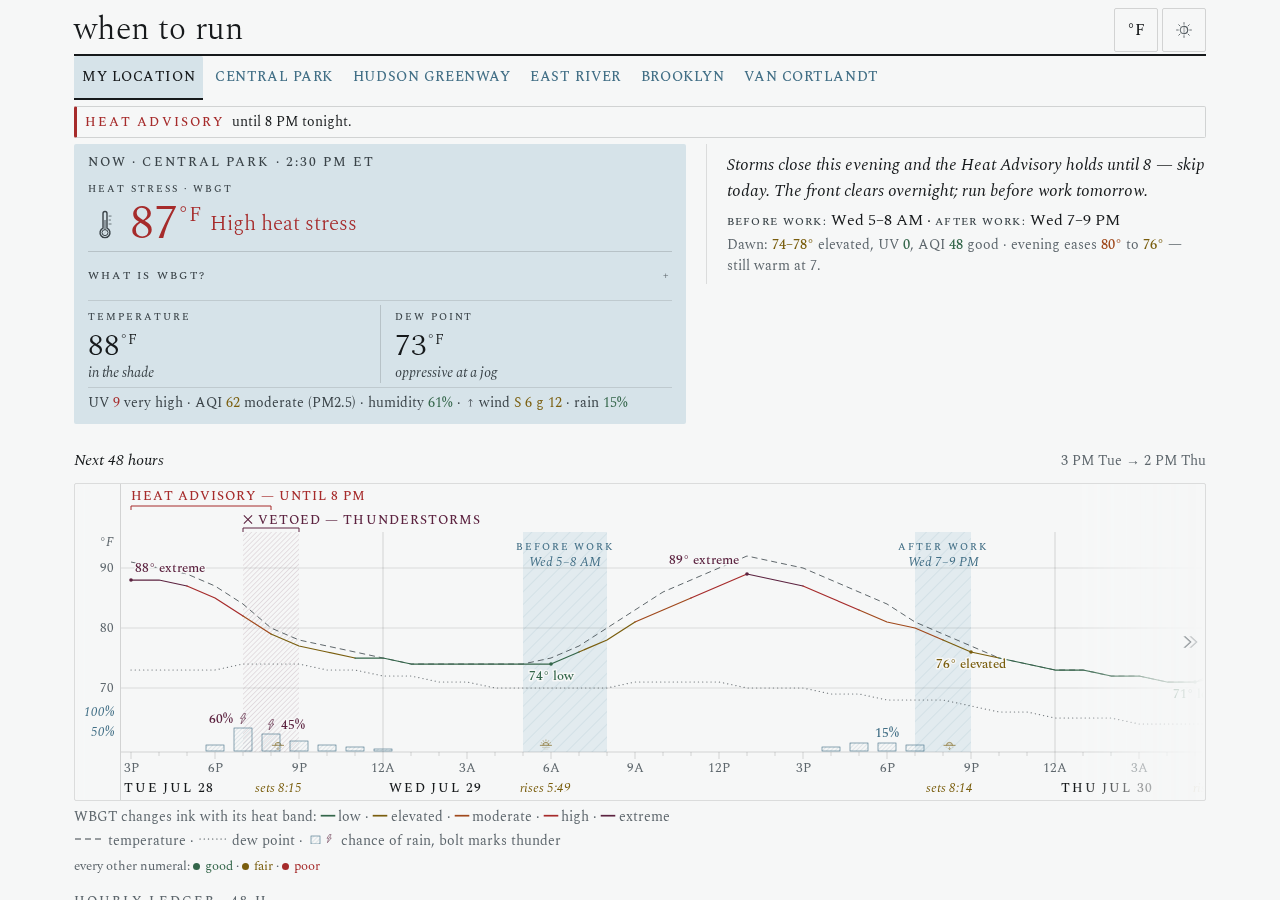
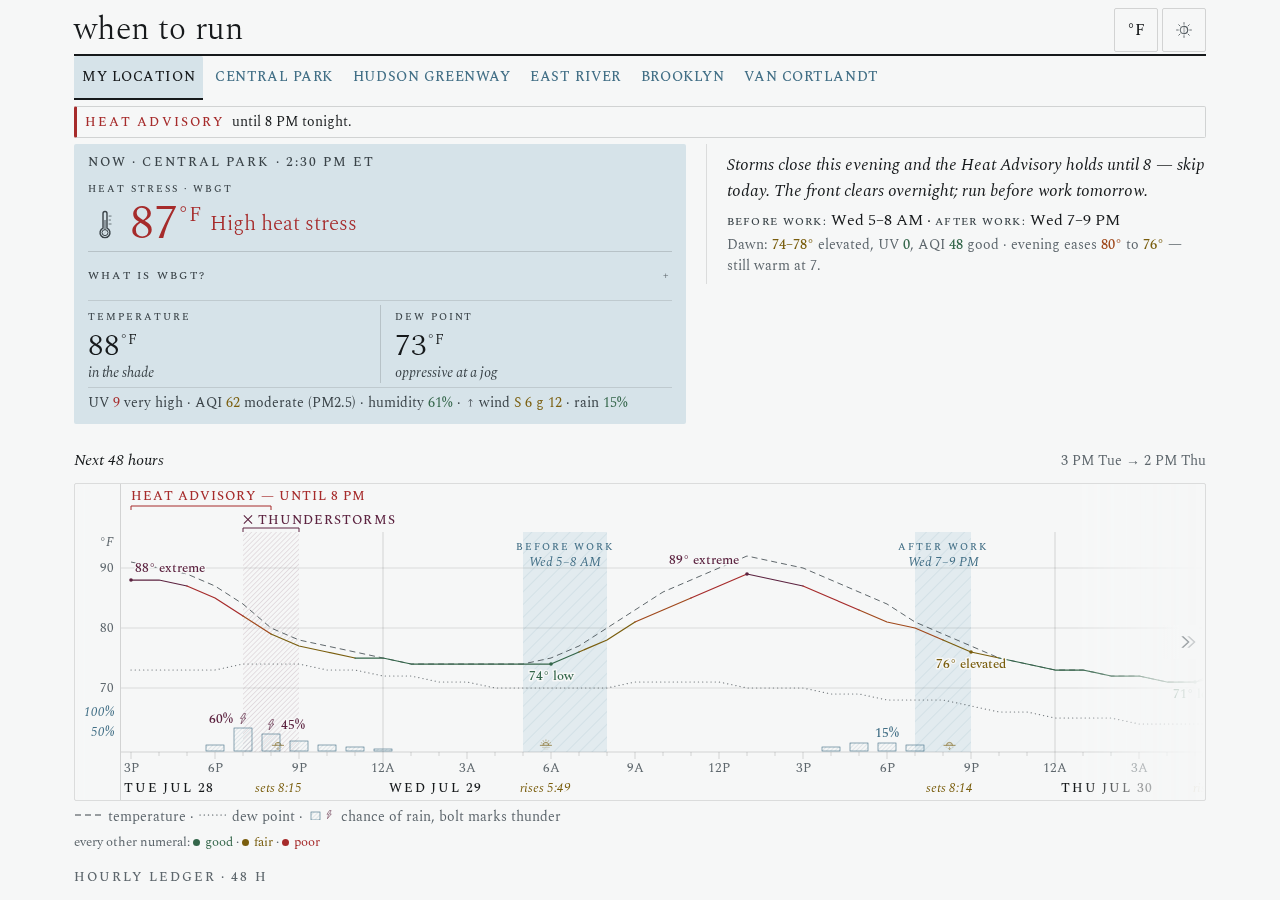
v3 nit round 2: chevron edges, table grid alignment, bigger table fonts
Left chevron truly left (the .fig-wrap right:6px override was beating the
left variant); paper backdrops on both hints; WBGT band legend line removed;
'vetoed' language dropped (reason stands alone); mobile fold becomes a true
indent grid (absolute time column, all wrapped lines align on the wbgt
column); duplicate tier tick removed; window annotation stacks under the
time; table fonts 14->16px, WBGT numerals 17->20px; audit gains positional
chevron check, honest deck-alignment check, and banned-word additions.

Claude-Session: https://claude.ai/code/session_013e4KYqsiVDmA55K5xtWKvh

Changed region(s): [[0.0625, 0.9022, 0.5, 1.0], [0.2188, 0.56, 0.375, 0.5911]]

diff --git a/web/mockups/ledger-v3-synthesis.html b/web/mockups/ledger-v3-synthesis.html
@@ -350,7 +350,7 @@ svg text { font-family: var(--font-serif); }
   border-collapse: separate; border-spacing: 0;   /* separate: borders travel with the sticky head */
   width: 100%;
   margin-top: var(--space-xs);
-  font-size: 14px;
+  font-size: 16px;
   line-height: 1.4;
 }
 .hours th, .hours td {
@@ -386,7 +386,7 @@ tr.tw4 > .t { border-left-color: var(--tier-4); }
 /* WBGT: the dominant column — wider, larger 500-weight tier-ink numeral,
    the category word alongside; the ONLY tier-colored value in the ledger */
 .hours .c-wbgt { text-align: left; white-space: normal; width: 24%; }
-.hours .c-wbgt .n { font-size: 17px; font-weight: 500; }
+.hours .c-wbgt .n { font-size: 20px; font-weight: 500; }
 .hours .c-wbgt .w-word { font-size: 13px; color: var(--slate); }
 /* air temp + dew point: neutral ink, plainly labeled, visibly quieter */
 .hours .c-temp, .hours .c-dew { color: var(--ink); }
@@ -596,6 +596,22 @@ tr[data-sun-row] .g { width: 15px; height: 15px; vertical-align: -3px; color: va
 .bolt-td { width: 9px; height: 12px; vertical-align: -1px; }
 .fig-key2 { font-size: 13px; color: var(--secondary); margin: 2px 0 0; }
 .fig-key2 .kdot { display: inline-block; width: 7px; height: 7px; border-radius: 50%; background: currentColor; margin-right: 2px; }
+
+.fig-wrap .scroll-hint-left { right: auto; left: 52px; }
+.scroll-hint { background: linear-gradient(270deg, var(--paper) 55%, transparent); padding: 6px 2px 6px 12px; }
+@media (max-width: 767px) {
+  /* one tier tick per row: the row edge carries it; the time cell's goes */
+  .hours tr:not(.day) > .t { border-left: 0; padding-left: 0; }
+  /* a true grid when folded: the time column is absolutely placed and every
+     content line — deck 1, deck 2, and any wrapped continuation — shares the
+     same indent, so nothing ever lands back under the time column */
+  .hours tr:not(.day):not([data-sun-row]):not([data-narrative]) { padding-left: 113px; }
+  .hours tr:not(.day):not([data-sun-row]):not([data-narrative]) > .t {
+    position: absolute; left: 9px; top: 7px; width: 100px; flex: none;
+  }
+  /* the window annotation stacks under the time instead of floating */
+  .hours .w-ann { position: static; display: block; margin: 1px 0 0; }
+}
 </style>
 </head>
 <body>
@@ -821,7 +837,7 @@ tr[data-sun-row] .g { width: 15px; height: 15px; vertical-align: -3px; color: va
         </div>
 <svg width="1344" height="316" viewBox="0 0 1344 316" role="img" aria-labelledby="figtitle figdesc">
 <title id="figtitle">WBGT, temperature and dew point for the next 48 hours on one shared Fahrenheit axis</title>
-<desc id="figdesc">Line chart from 3 PM Tuesday to 2 PM Thursday. WBGT is drawn in its heat-band ink, temperature as a dashed neutral line, dew point dotted. Ice-tinted bands mark the best windows: Wednesday 5 to 8 AM before work, and Wednesday 7 to 9 PM after work. Tuesday 7 to 9 PM is cross-hatched and vetoed for thunderstorms. A Heat Advisory bracket spans 3 to 8 PM Tuesday. Hatched bars along the base count the chance of rain, with bolt marks at the 60 and 45 percent storm hours.</desc>
+<desc id="figdesc">Line chart from 3 PM Tuesday to 2 PM Thursday. WBGT is drawn in its heat-band ink, temperature as a dashed neutral line, dew point dotted. Ice-tinted bands mark the best windows: Wednesday 5 to 8 AM before work, and Wednesday 7 to 9 PM after work. Tuesday 7 to 9 PM is cross-hatched and struck out for thunderstorms. A Heat Advisory bracket spans 3 to 8 PM Tuesday. Hatched bars along the base count the chance of rain, with bolt marks at the 60 and 45 percent storm hours.</desc>
 <defs>
 <pattern id="hatchVeto" width="3.5" height="3.5" patternUnits="userSpaceOnUse" patternTransform="rotate(45)"><line class="pv" x1="0" y1="0" x2="0" y2="3.5"/></pattern>
 <pattern id="hatchWin" width="9" height="9" patternUnits="userSpaceOnUse" patternTransform="rotate(45)"><line class="pw" x1="0" y1="0" x2="0" y2="9"/></pattern>
@@ -836,7 +852,7 @@ tr[data-sun-row] .g { width: 15px; height: 15px; vertical-align: -3px; color: va
   <rect class="win-ice" x="794" y="48" width="56" height="220"/>
   <rect class="win-hatch" x="794" y="48" width="56" height="220"/>
 </g>
-<!-- vetoed span: Tue 7-9 PM, dense diagonal hatch -->
+<!-- struck span: Tue 7-9 PM, dense diagonal hatch -->
 <rect class="veto-hatch" x="122" y="48" width="56" height="220"/>
 <!-- gridlines at 70 / 80 / 90 -->
 <line class="lx-grid" x1="0" y1="84" x2="1344" y2="84"/>
@@ -848,7 +864,7 @@ tr[data-sun-row] .g { width: 15px; height: 15px; vertical-align: -3px; color: va
 <!-- top annotations: advisory bracket, veto reason, window names -->
 <text class="fx-ann f3" x="10" y="16">HEAT ADVISORY &#8212; UNTIL 8 PM</text>
 <path class="lx-brk b3" d="M 10 26 V 22 H 150 V 26"/>
-<text class="fx-ann f4" x="122" y="40">&#10005; VETOED &#8212; THUNDERSTORMS</text>
+<text class="fx-ann f4" x="122" y="40">&#10005; THUNDERSTORMS</text>
 <path class="lx-brk b4" d="M 122 44 V 48 M 122 44 H 178 M 178 44 V 48"/>
 <text class="fx-winlab" x="444" y="66" text-anchor="middle">before work</text>
 <text class="fx-wint" x="444" y="82" text-anchor="middle">Wed 5&#8211;8 AM</text>
@@ -945,7 +961,6 @@ tr[data-sun-row] .g { width: 15px; height: 15px; vertical-align: -3px; color: va
       <span class="scroll-hint scroll-hint-left" data-scrub-left hidden aria-hidden="true"><svg><use href="#g-chevrons"/></svg></span>
     </div>
     <div class="fig-legend">
-      <span class="lg-wbgt">WBGT changes ink with its heat band: <span class="sw tt0">&#9473;</span> low &middot; <span class="sw tt1">&#9473;</span> elevated &middot; <span class="sw tt2">&#9473;</span> moderate &middot; <span class="sw tt3">&#9473;</span> high &middot; <span class="sw tt4">&#9473;</span> extreme</span><br>
       <span class="lg-air"><svg class="lg-samp" viewBox="0 0 30 10" aria-hidden="true"><line x1="1" y1="5" x2="29" y2="5" stroke="currentColor" stroke-width="1" stroke-dasharray="6 4"/></svg> temperature</span> &middot;
       <span class="lg-dew"><svg class="lg-samp" viewBox="0 0 30 10" aria-hidden="true"><line x1="2" y1="5" x2="29" y2="5" stroke="currentColor" stroke-width="1.2" stroke-dasharray="0.2 4" stroke-linecap="round"/></svg> dew point</span> &middot;
       <span class="lg-rain"><svg class="lg-samp" viewBox="0 0 30 10" aria-hidden="true"><rect x="4" y="2" width="9" height="8" class="rainbar"/><use href="#g-bolt" x="18" y="0" width="8" height="10.2" class="bolt-g"/></svg> chance of rain, bolt marks thunder</span>
@@ -968,8 +983,8 @@ tr[data-sun-row] .g { width: 15px; height: 15px; vertical-align: -3px; color: va
 <tr class="tw4"><th class="t" scope="row"><svg class="g" aria-hidden="true"><use href="#g-sun"/></svg>4&nbsp;PM</th><td class="c-wbgt"><span class="n tt4">88&#176;</span></td><td class="c-temp">91&#176;</td><td class="c-dew">73&#176;</td><td class="c-rh q0">61%</td><td class="c-uv q1">6</td><td class="c-aqi q1">63</td><td class="c-wind q0"><svg class="vane" aria-hidden="true"><use href="#g-vane"/></svg>S 7</td><td class="c-rain q0">0%</td></tr>
 <tr class="tw3"><th class="t" scope="row"><svg class="g" aria-hidden="true"><use href="#g-sun"/></svg>5&nbsp;PM</th><td class="c-wbgt"><span class="n tt3">87&#176;</span></td><td class="c-temp">90&#176;</td><td class="c-dew">73&#176;</td><td class="c-rh q0">63%</td><td class="c-uv q1">4</td><td class="c-aqi q1">63</td><td class="c-wind q0"><svg class="vane" aria-hidden="true"><use href="#g-vane"/></svg>S 7</td><td class="c-rain q0">5%</td></tr>
 <tr class="tw3"><th class="t" scope="row"><svg class="g" aria-hidden="true"><use href="#g-cloud"/></svg>6&nbsp;PM</th><td class="c-wbgt"><span class="n tt3">85&#176;</span></td><td class="c-temp">88&#176;</td><td class="c-dew">73&#176;</td><td class="c-rh q1">67%</td><td class="c-uv q0">2</td><td class="c-aqi q1">61</td><td class="c-wind q0"><svg class="vane" aria-hidden="true"><use href="#g-vane"/></svg>S 8</td><td class="c-rain q0">15%</td></tr>
-<tr class="tw2 veto"><th class="t" scope="row"><svg class="g" aria-hidden="true"><use href="#g-storm"/></svg>7&nbsp;PM</th><td class="c-wbgt"><span class="n tt2">82&#176;</span> <span class="w-word vt">&#10005; vetoed &mdash; thunderstorms likely (60%)</span></td><td class="c-temp">84&#176;</td><td class="c-dew">74&#176;</td><td class="c-rh q1">77%</td><td class="c-uv q0">1</td><td class="c-aqi q1">58</td><td class="c-wind q2"><svg class="vane" aria-hidden="true"><use href="#g-vane"/></svg>S 10 g22</td><td class="c-rain q2">60% <svg class="g bolt-td" aria-hidden="true"><use href="#g-bolt"/></svg></td></tr>
-<tr class="tw1 veto"><th class="t" scope="row"><svg class="g" aria-hidden="true"><use href="#g-storm"/></svg>8&nbsp;PM</th><td class="c-wbgt"><span class="n tt1">79&#176;</span> <span class="w-word vt">&#10005; vetoed &mdash; thunderstorms possible (45%)</span></td><td class="c-temp">81&#176;</td><td class="c-dew">74&#176;</td><td class="c-rh q2">85%</td><td class="c-uv q0">0</td><td class="c-aqi q1">55</td><td class="c-wind q2"><svg class="vane" style="transform:rotate(45deg)" aria-hidden="true"><use href="#g-vane"/></svg>SW 12 g24</td><td class="c-rain q1">45% <svg class="g bolt-td" aria-hidden="true"><use href="#g-bolt"/></svg></td></tr>
+<tr class="tw2 veto"><th class="t" scope="row"><svg class="g" aria-hidden="true"><use href="#g-storm"/></svg>7&nbsp;PM</th><td class="c-wbgt"><span class="n tt2">82&#176;</span> <span class="w-word vt">&#10005; thunderstorms likely (60%)</span></td><td class="c-temp">84&#176;</td><td class="c-dew">74&#176;</td><td class="c-rh q1">77%</td><td class="c-uv q0">1</td><td class="c-aqi q1">58</td><td class="c-wind q2"><svg class="vane" aria-hidden="true"><use href="#g-vane"/></svg>S 10 g22</td><td class="c-rain q2">60% <svg class="g bolt-td" aria-hidden="true"><use href="#g-bolt"/></svg></td></tr>
+<tr class="tw1 veto"><th class="t" scope="row"><svg class="g" aria-hidden="true"><use href="#g-storm"/></svg>8&nbsp;PM</th><td class="c-wbgt"><span class="n tt1">79&#176;</span> <span class="w-word vt">&#10005; thunderstorms possible (45%)</span></td><td class="c-temp">81&#176;</td><td class="c-dew">74&#176;</td><td class="c-rh q2">85%</td><td class="c-uv q0">0</td><td class="c-aqi q1">55</td><td class="c-wind q2"><svg class="vane" style="transform:rotate(45deg)" aria-hidden="true"><use href="#g-vane"/></svg>SW 12 g24</td><td class="c-rain q1">45% <svg class="g bolt-td" aria-hidden="true"><use href="#g-bolt"/></svg></td></tr>
 <tr data-sun-row><th class="t" scope="row"><svg class="g" aria-hidden="true"><use href="#g-sunset"/></svg></th><td colspan="8">&mdash; sunset 8:15 &mdash;</td></tr>
 <tr data-narrative><td colspan="9">&mdash; storms pass by 9&nbsp;PM &mdash;</td></tr>
 <tr class="tw1"><th class="t" scope="row"><svg class="g" aria-hidden="true"><use href="#g-rain"/></svg>9&nbsp;PM</th><td class="c-wbgt"><span class="n tt1">77&#176;</span></td><td class="c-temp">78&#176;</td><td class="c-dew">74&#176;</td><td class="c-rh q2">88%</td><td class="c-uv q0">0</td><td class="c-aqi q1">54</td><td class="c-wind q0"><svg class="vane" style="transform:rotate(45deg)" aria-hidden="true"><use href="#g-vane"/></svg>SW 8</td><td class="c-rain q1">25%</td></tr>

diff --git a/e2e/tests/ui-check.spec.ts b/e2e/tests/ui-check.spec.ts
@@ -271,6 +271,8 @@ for (const variant of variants) {
             'fig 1',
             'nyc running conditions',
             'new york running conditions',
+            'vetoed',
+            'changes ink',
           ].filter((s) => text.includes(s));
           const tableWords: string[] = [];
           for (const row of document.querySelectorAll('table tr, ol.ledger li, [data-hour-row]')) {
@@ -296,14 +298,19 @@ for (const variant of variants) {
         });
         expect(rowLabeled, 'mobile hour rows label the WBGT numeral (bare temps are ambiguous)').toBe(true);
         // Deck 2 aligns with the WBGT column start — blank under the time column.
+        // Compare the first deck-2 cell's left edge against the WBGT cell's left
+        // edge in the same row (both are flex items, so rects reflect layout).
         const deckAligned = await page.evaluate(() => {
-          const row = document.querySelector('ol.ledger li:not([data-sun-row]):not([data-narrative]), [data-hour-row]');
-          if (!row) return true;
-          const wbgt = row.querySelector('[data-metric="wbgt"], .lwbgt, [class*="wbgt"]');
-          const deck2 = row.querySelector('[data-deck2], .deck2, [class*="deck2"]');
-          if (!wbgt || !deck2) return false;
-          const dx = Math.abs(deck2.getBoundingClientRect().left - wbgt.getBoundingClientRect().left);
-          return dx <= 8;
+          if (document.documentElement.clientWidth >= 768) return true; // desktop keeps columns
+          const rows = document.querySelectorAll('.hours tr:not(.day):not([data-sun-row]):not([data-narrative]):not(.condense), ol.ledger li:not([data-sun-row]):not([data-narrative])');
+          for (const row of rows) {
+            const wbgt = row.querySelector('.c-wbgt, [data-metric="wbgt"]');
+            const first = row.querySelector('.c-rh, [data-deck2], .deck2');
+            if (!wbgt || !first) continue;
+            const dx = Math.abs(first.getBoundingClientRect().left - wbgt.getBoundingClientRect().left);
+            return dx <= 10;
+          }
+          return false;
         });
         expect(deckAligned, 'mobile deck 2 left-aligns with the WBGT column, not the time column').toBe(true);
         expect(r.staticCompass, 'static compass rose removed').toBe(0);
@@ -361,6 +368,29 @@ for (const variant of variants) {
         expect(r.atStart?.left, 'left arrow hidden at start').toBe(false);
         expect(r.atEnd?.left, 'left arrow visible at right extreme').toBe(true);
         expect(r.atEnd?.right, 'right arrow hidden at right extreme').toBe(false);
+      });
+
+      test('v3: chevrons sit on opposite edges of every scroller pair', async ({ page }) => {
+        const bad = await page.evaluate(() => {
+          const out: string[] = [];
+          for (const L of document.querySelectorAll<HTMLElement>('[data-scrub-left]')) {
+            const wrap = L.parentElement!;
+            const R = wrap.querySelector<HTMLElement>('[data-scrub-right]');
+            if (!R) continue;
+            L.hidden = false;
+            R.hidden = false;
+            const w = wrap.getBoundingClientRect();
+            const l = L.getBoundingClientRect();
+            const rr = R.getBoundingClientRect();
+            const mid = w.left + w.width / 2;
+            if (!(l.left + l.width / 2 < mid && rr.left + rr.width / 2 > mid)) {
+              out.push(`${wrap.className}: left@${Math.round(l.left)} right@${Math.round(rr.left)} mid@${Math.round(mid)}`);
+            }
+            L.hidden = true;
+          }
+          return out;
+        });
+        expect(bad, `left chevron must sit left of center, right chevron right: ${bad.join(' | ')}`).toEqual([]);
       });
 
       test('v3: air temp and dew point side by side under WBGT, neutral ink', async ({ page }) => {
